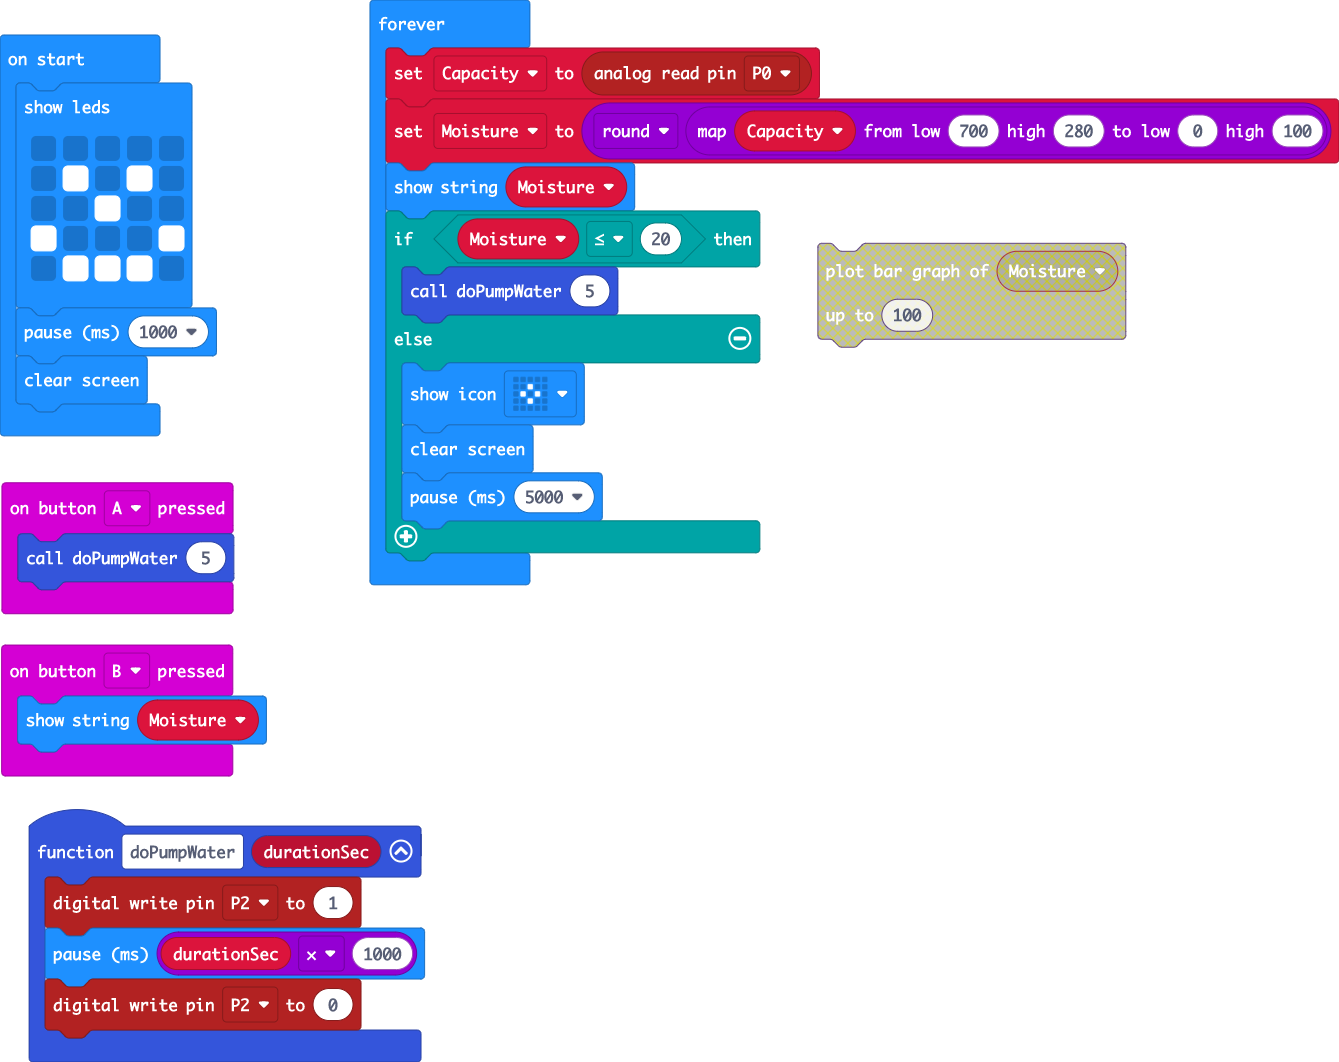
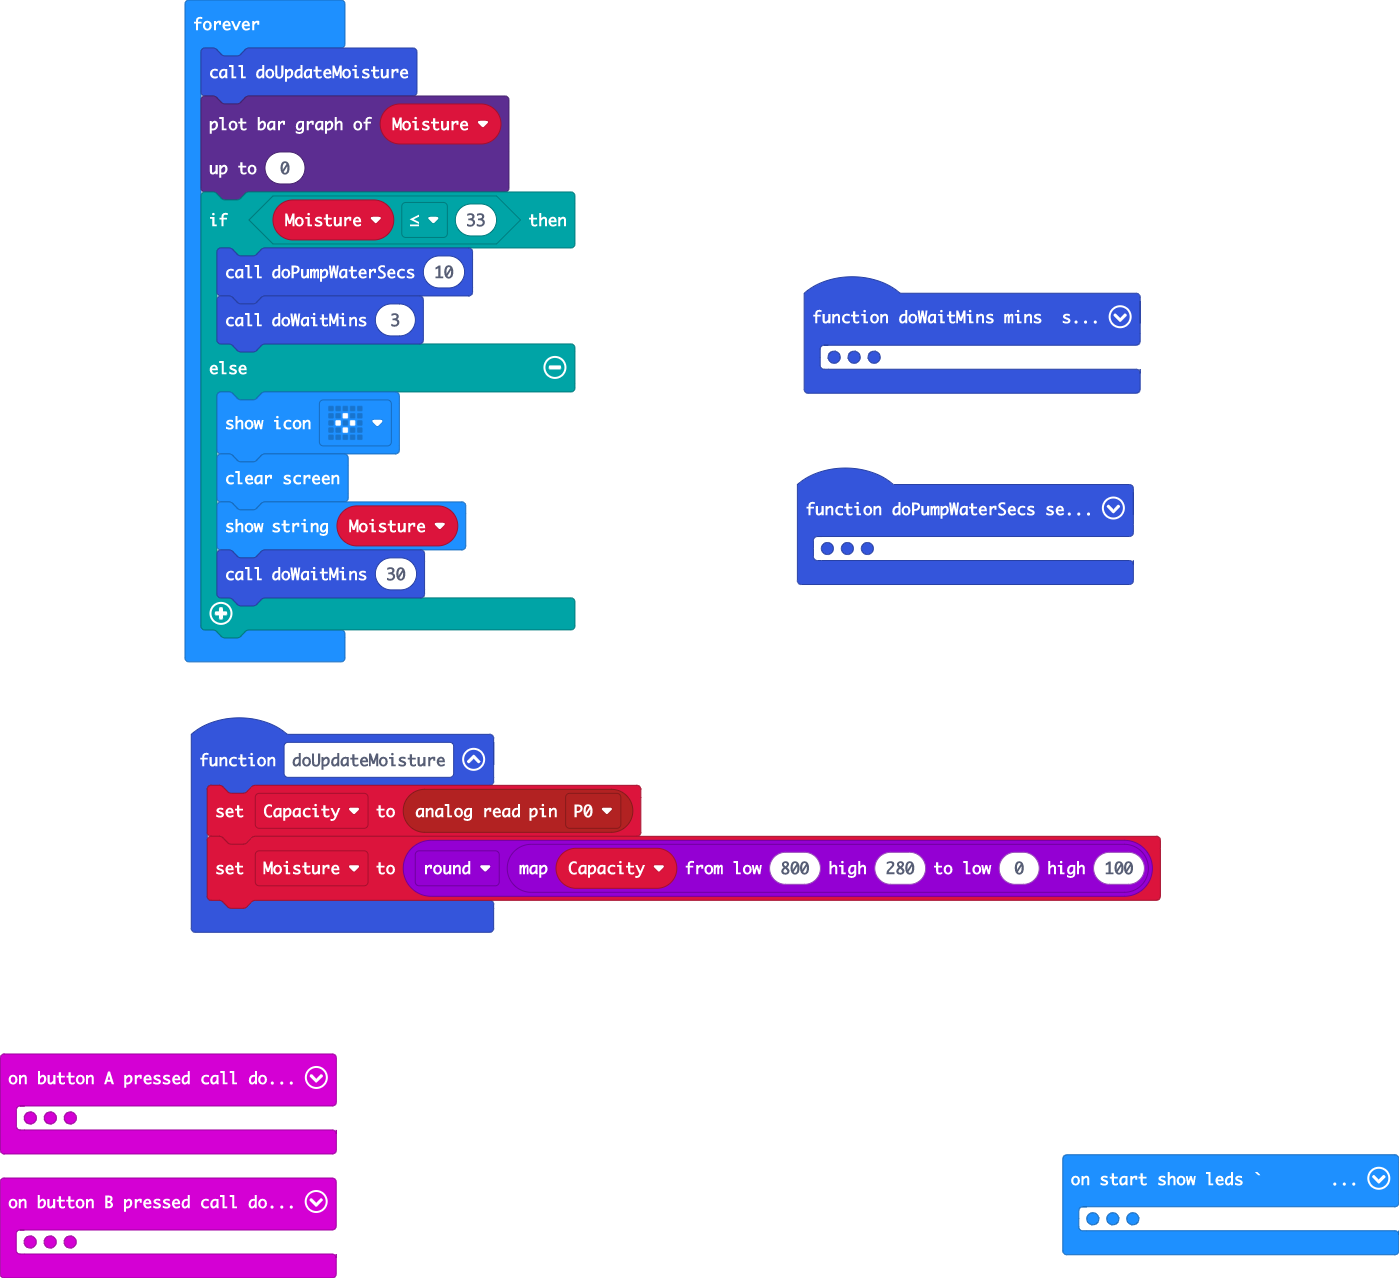
update the timeouts to reflect the reality

diff --git a/main.ts b/main.ts
@@ -1,16 +1,34 @@
-function doPumpWater (durationSec: number) {
-    pins.digitalWritePin(DigitalPin.P2, 1)
-    basic.pause(durationSec * 1000)
-    pins.digitalWritePin(DigitalPin.P2, 0)
+function doUpdateMoisture () {
+    Capacity = pins.analogReadPin(AnalogPin.P0)
+    Moisture = Math.round(Math.map(Capacity, 800, 280, 0, 100))
 }
-input.onButtonPressed(Button.A, function () {
-    doPumpWater(5)
-})
 input.onButtonPressed(Button.B, function () {
+    doUpdateMoisture()
     basic.showString("" + (Moisture))
 })
-let Capacity = 0
+function doWaitMins (mins: number) {
+    secsToGo = mins * 60
+    while (0 <= secsToGo) {
+        basic.showString("" + (secsToGo))
+        secsToGo = secsToGo - 10
+        basic.pause(10000)
+    }
+}
+input.onButtonPressed(Button.A, function () {
+    doPumpWaterSecs(10)
+})
+function doPumpWaterSecs (secs: number) {
+    basic.showIcon(IconNames.Umbrella)
+    pins.digitalWritePin(DigitalPin.P2, 1)
+    basic.pause(secs * 1000)
+    pins.digitalWritePin(DigitalPin.P2, 0)
+    basic.showIcon(IconNames.Yes)
+    basic.pause(30000)
+    basic.clearScreen()
+}
+let secsToGo = 0
 let Moisture = 0
+let Capacity = 0
 basic.showLeds(`
     . . . . .
     . # . # .
@@ -21,14 +39,18 @@ basic.showLeds(`
 basic.pause(1000)
 basic.clearScreen()
 basic.forever(function () {
-    Capacity = pins.analogReadPin(AnalogPin.P0)
-    Moisture = Math.round(Math.map(Capacity, 700, 280, 0, 100))
-    basic.showString("" + (Moisture))
-    if (Moisture <= 20) {
-        doPumpWater(5)
+    doUpdateMoisture()
+    led.plotBarGraph(
+    Moisture,
+    0
+    )
+    if (Moisture <= 33) {
+        doPumpWaterSecs(10)
+        doWaitMins(3)
     } else {
         basic.showIcon(IconNames.SmallDiamond)
         basic.clearScreen()
-        basic.pause(5000)
+        basic.showString("" + (Moisture))
+        doWaitMins(30)
     }
 })

diff --git a/main.py b/main.py
@@ -1,0 +1,51 @@
+def doWaitMins(mins: number):
+    global secsToGo
+    secsToGo = 0 * 60
+    while 0 <= secsToGo:
+        secsToGo = secsToGo - 10000
+        basic.pause(10000)
+
+def on_button_pressed_a():
+    doPumpWaterSecs(5)
+input.on_button_pressed(Button.A, on_button_pressed_a)
+
+def doPumpWaterSecs(secs: number):
+    led.stop_animation()
+    basic.show_icon(IconNames.UMBRELLA)
+    pins.digital_write_pin(DigitalPin.P2, 1)
+    basic.pause(secs * 1000)
+    pins.digital_write_pin(DigitalPin.P2, 0)
+    basic.show_icon(IconNames.YES)
+    basic.pause(30000)
+    basic.clear_screen()
+
+def on_button_pressed_b():
+    basic.show_string("" + str((Moisture)))
+input.on_button_pressed(Button.B, on_button_pressed_b)
+
+Capacity = 0
+Moisture = 0
+secsToGo = 0
+basic.show_leds("""
+    . . . . .
+        . # . # .
+        . . # . .
+        # . . . #
+        . # # # .
+""")
+basic.pause(1000)
+basic.clear_screen()
+
+def on_forever():
+    global Capacity, Moisture
+    Capacity = pins.analog_read_pin(AnalogPin.P0)
+    Moisture = Math.round(Math.map(Capacity, 800, 280, 0, 100))
+    led.plot_bar_graph(Moisture, 0)
+    if Moisture <= 33:
+        doPumpWaterSecs(5)
+    else:
+        basic.show_icon(IconNames.SMALL_DIAMOND)
+        basic.clear_screen()
+        basic.show_string("" + str((Moisture)))
+        basic.pause(5000)
+basic.forever(on_forever)
